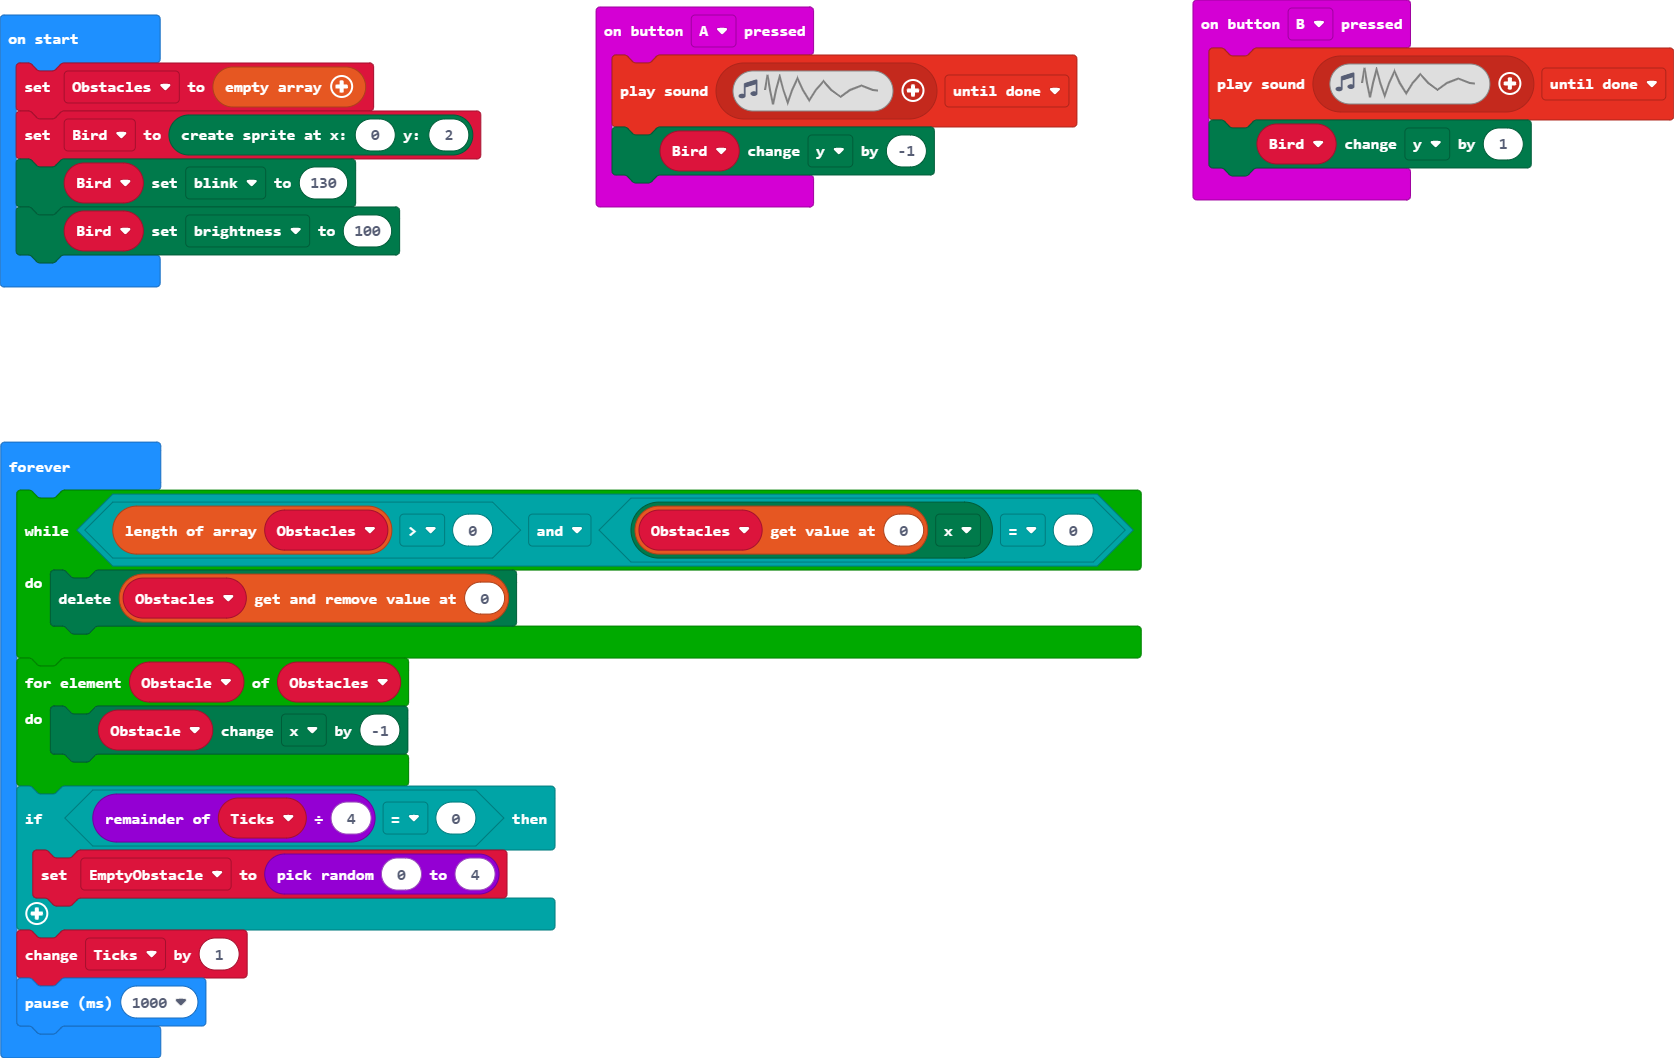
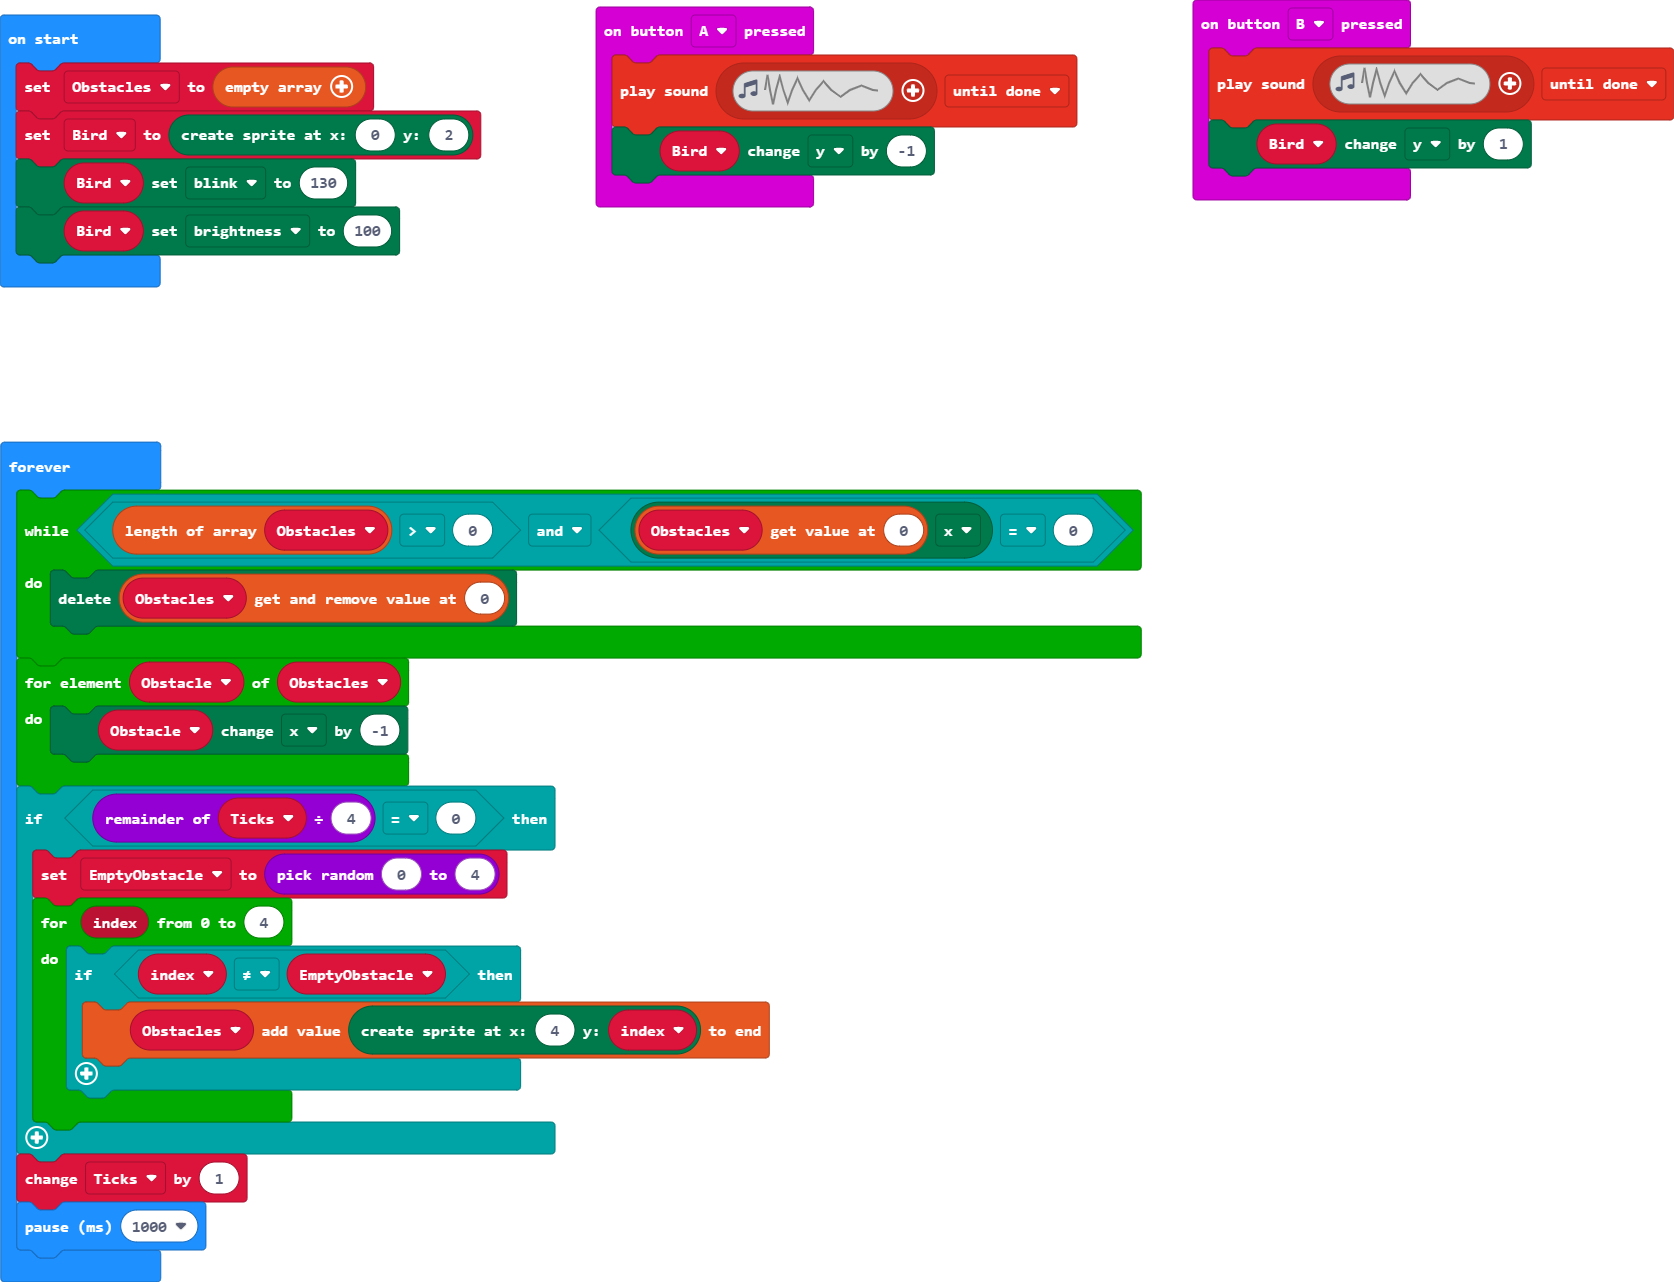
obstacles complete

diff --git a/main.ts b/main.ts
@@ -22,6 +22,11 @@ basic.forever(function () {
     }
     if (Ticks % 4 == 0) {
         EmptyObstacle = randint(0, 4)
+        for (let index = 0; index <= 4; index++) {
+            if (index != EmptyObstacle) {
+                Obstacles.push(game.createSprite(4, index))
+            }
+        }
     }
     Ticks += 1
     basic.pause(1000)
